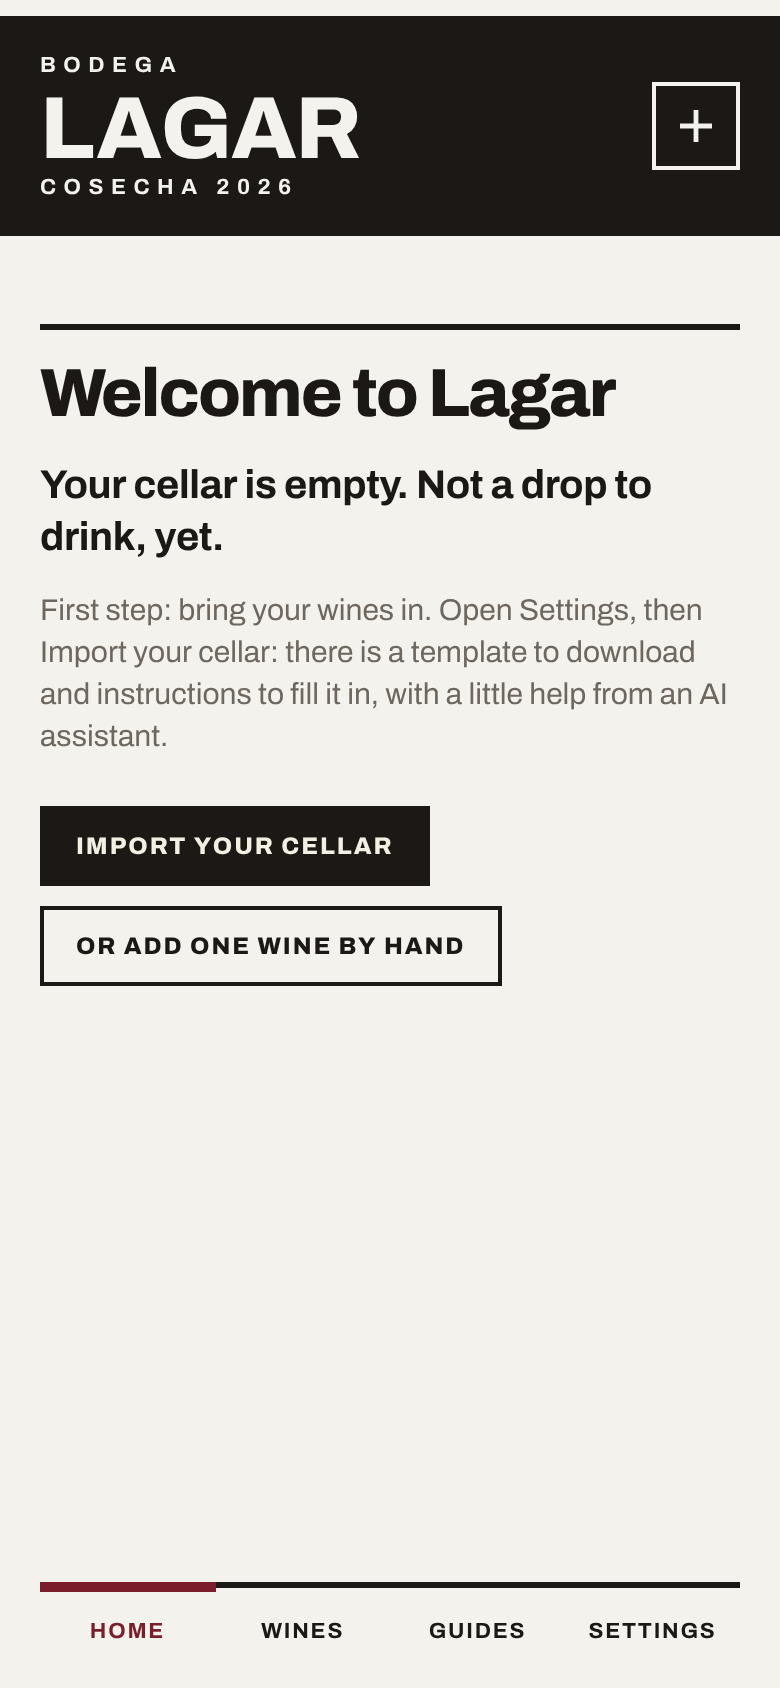
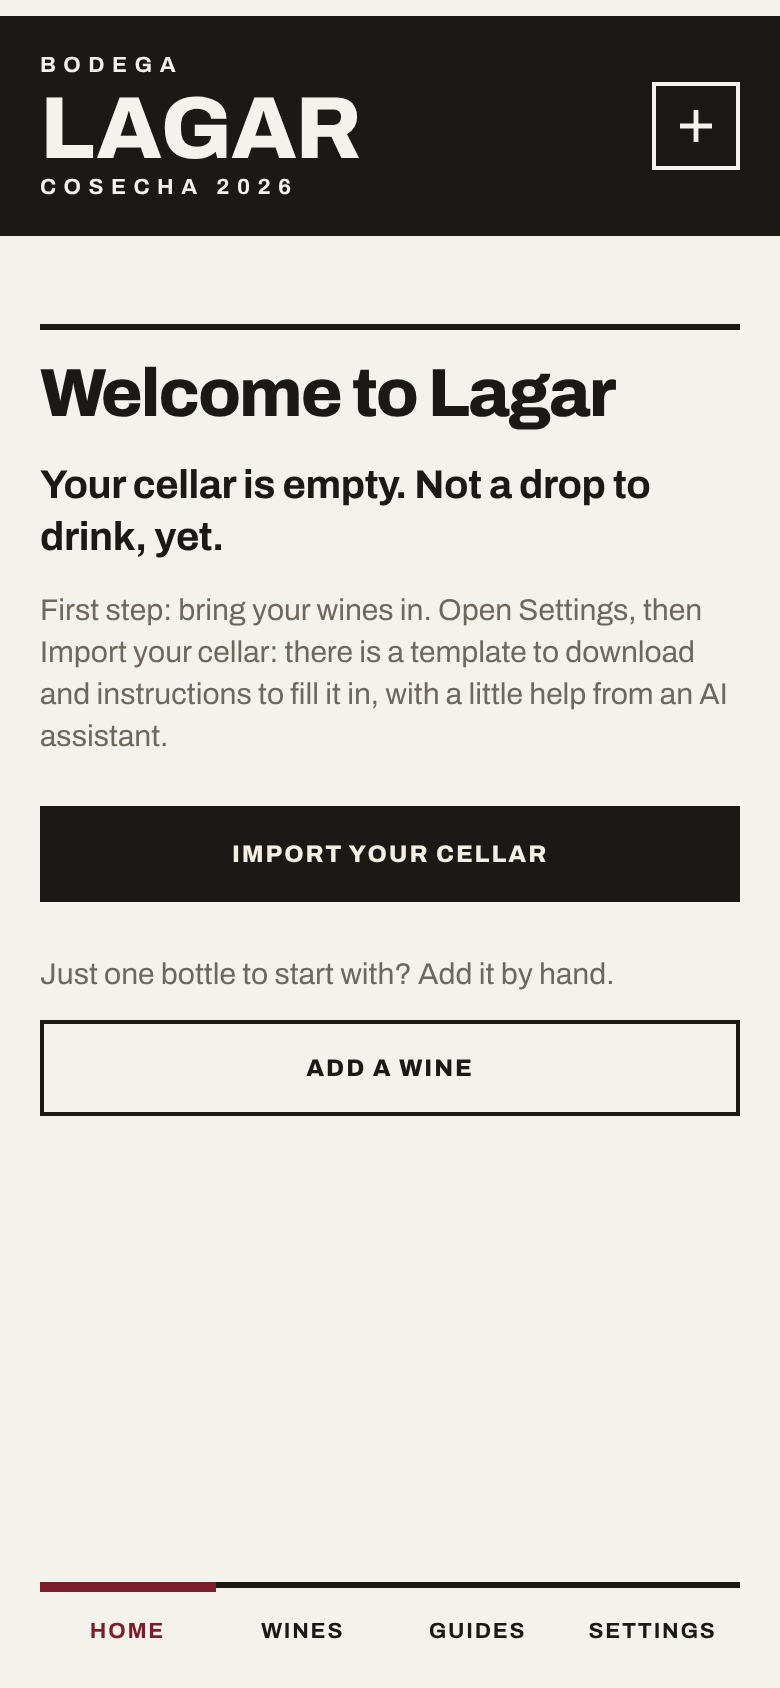
Welcome page: import button, then a line and an Add a wine button, same size

diff --git a/src/lib/i18n/i18n.test.ts b/src/lib/i18n/i18n.test.ts
@@ -38,7 +38,7 @@ describe('translations', () => {
     const used = [
       'Home', 'Wines', 'Guides', 'Settings', 'Main', 'Lagar, home', 'Add a wine', 'Bottles', 'Drink now', 'Cellar', 'Search',
       'Search your cellar', 'Suggestions', 'Red', 'White', 'Cellar cost', 'Welcome to Lagar', 'Import your cellar',
-      'Or add one wine by hand', 'In my cellar', 'Opened', 'Both', 'Order', 'Newest purchase', 'Oldest purchase',
+      'Just one bottle to start with? Add it by hand.', 'In my cellar', 'Opened', 'Both', 'Order', 'Newest purchase', 'Oldest purchase',
       'Price: high to low', 'Price: low to high', 'All countries', 'All regions', 'All appellations', 'All types', 'All grapes',
       'All vintages', 'Drinking', 'Any drinking status', 'Clear filters', 'No wines match.', 'Drink soon', 'Can wait', 'Keep',
       'Evolves', 'now', 'soon', 'young', 'wine', 'wines', 'bottle', 'opened|one', 'opened', 'Rosé', 'Sparkling', 'Fortified',

diff --git a/src/components/Welcome.svelte b/src/components/Welcome.svelte
@@ -8,8 +8,7 @@
   <h1>{t('Welcome to Lagar')}</h1>
   <p class="big">{t('Your cellar is empty. Not a drop to drink, yet.')}</p>
   <p>{t('First step: bring your wines in. Open Settings, then Import your cellar: there is a template to download and instructions to fill it in, with a little help from an AI assistant.')}</p>
-  <p class="actions">
-    <a class="btn" href={href('/settings/import')}>{t('Import your cellar')}</a>
-    <a class="btn secondary" href={href('/wine/new')}>{t('Or add one wine by hand')}</a>
-  </p>
+  <a class="btn block" href={href('/settings/import')}>{t('Import your cellar')}</a>
+  <p class="by-hand">{t('Just one bottle to start with? Add it by hand.')}</p>
+  <a class="btn secondary block" href={href('/wine/new')}>{t('Add a wine')}</a>
 </section>

diff --git a/src/app.css b/src/app.css
@@ -249,6 +249,9 @@ form.langs button[type=submit].on { background: var(--ink); color: var(--paper);
 .welcome p, .notfound p { margin: 14px 0 0; font-size: 15px; line-height: 21px; color: var(--ink-soft); }
 .welcome p.big, .notfound p.big { font-size: 20px; line-height: 26px; font-weight: 700; color: var(--ink); letter-spacing: -0.01em; }
 .welcome .actions, .notfound .actions { display: flex; flex-wrap: wrap; gap: 10px; margin-top: 24px; }
+.welcome .btn.block { display: block; margin-top: 24px; padding: 14px 16px; text-align: center; }
+.welcome p.by-hand { margin-top: 26px; }
+.welcome p.by-hand + .btn.block { margin-top: 12px; }
 .notfound { margin: 28px 20px 0; border-top: 3px solid var(--ink); }
 
 /* ---------- the app shell ---------- */

diff --git a/src/lib/i18n/extra.ts b/src/lib/i18n/extra.ts
@@ -1,5 +1,6 @@
 /** Interface texts that are new in this app (not in the original Lagar), with Spanish and French. Merged with strings.ts. */
 export const EXTRA: Record<string, { es: string; fr: string }> = {
+  'Just one bottle to start with? Add it by hand.': { es: '¿Solo una botella para empezar? Añádela a mano.', fr: 'Une seule bouteille pour commencer ? Ajoutez-la à la main.' },
   'Shop page': { es: 'Página de la tienda', fr: 'Page de la boutique' },
   'Backup': { es: 'Copia de seguridad', fr: 'Sauvegarde' },
   'Export backup': { es: 'Exportar copia', fr: 'Exporter la sauvegarde' },
